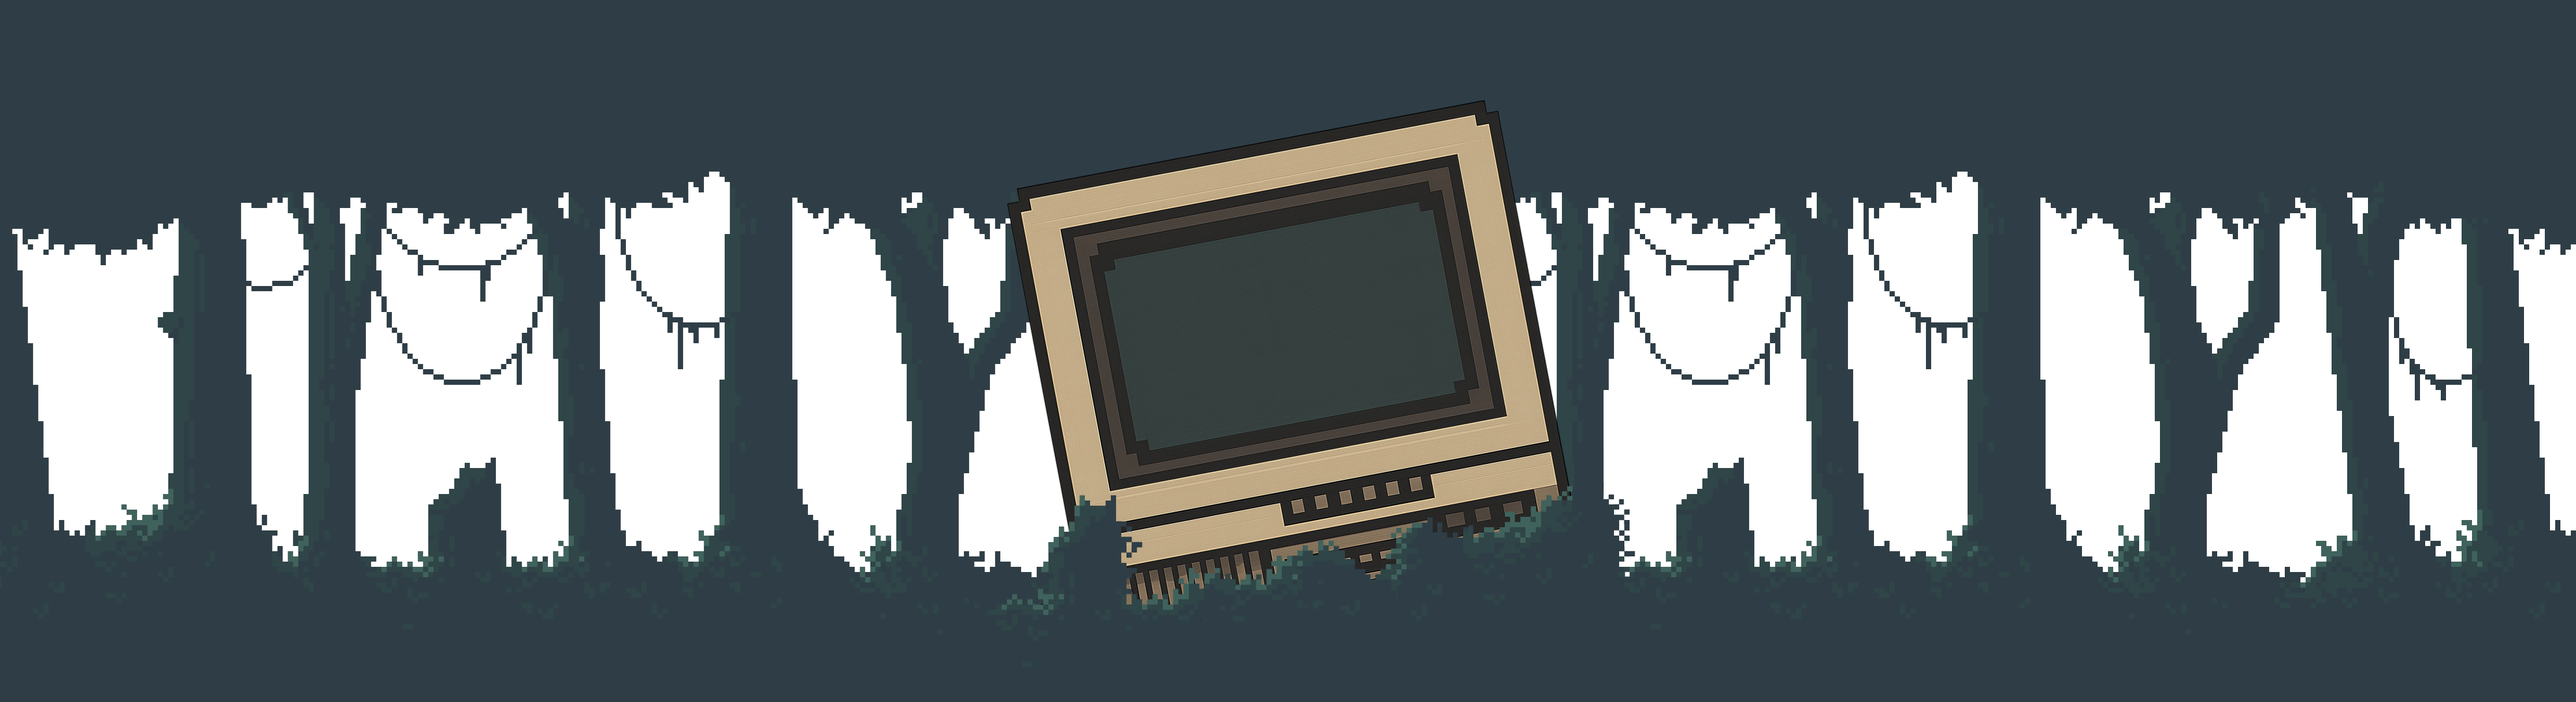
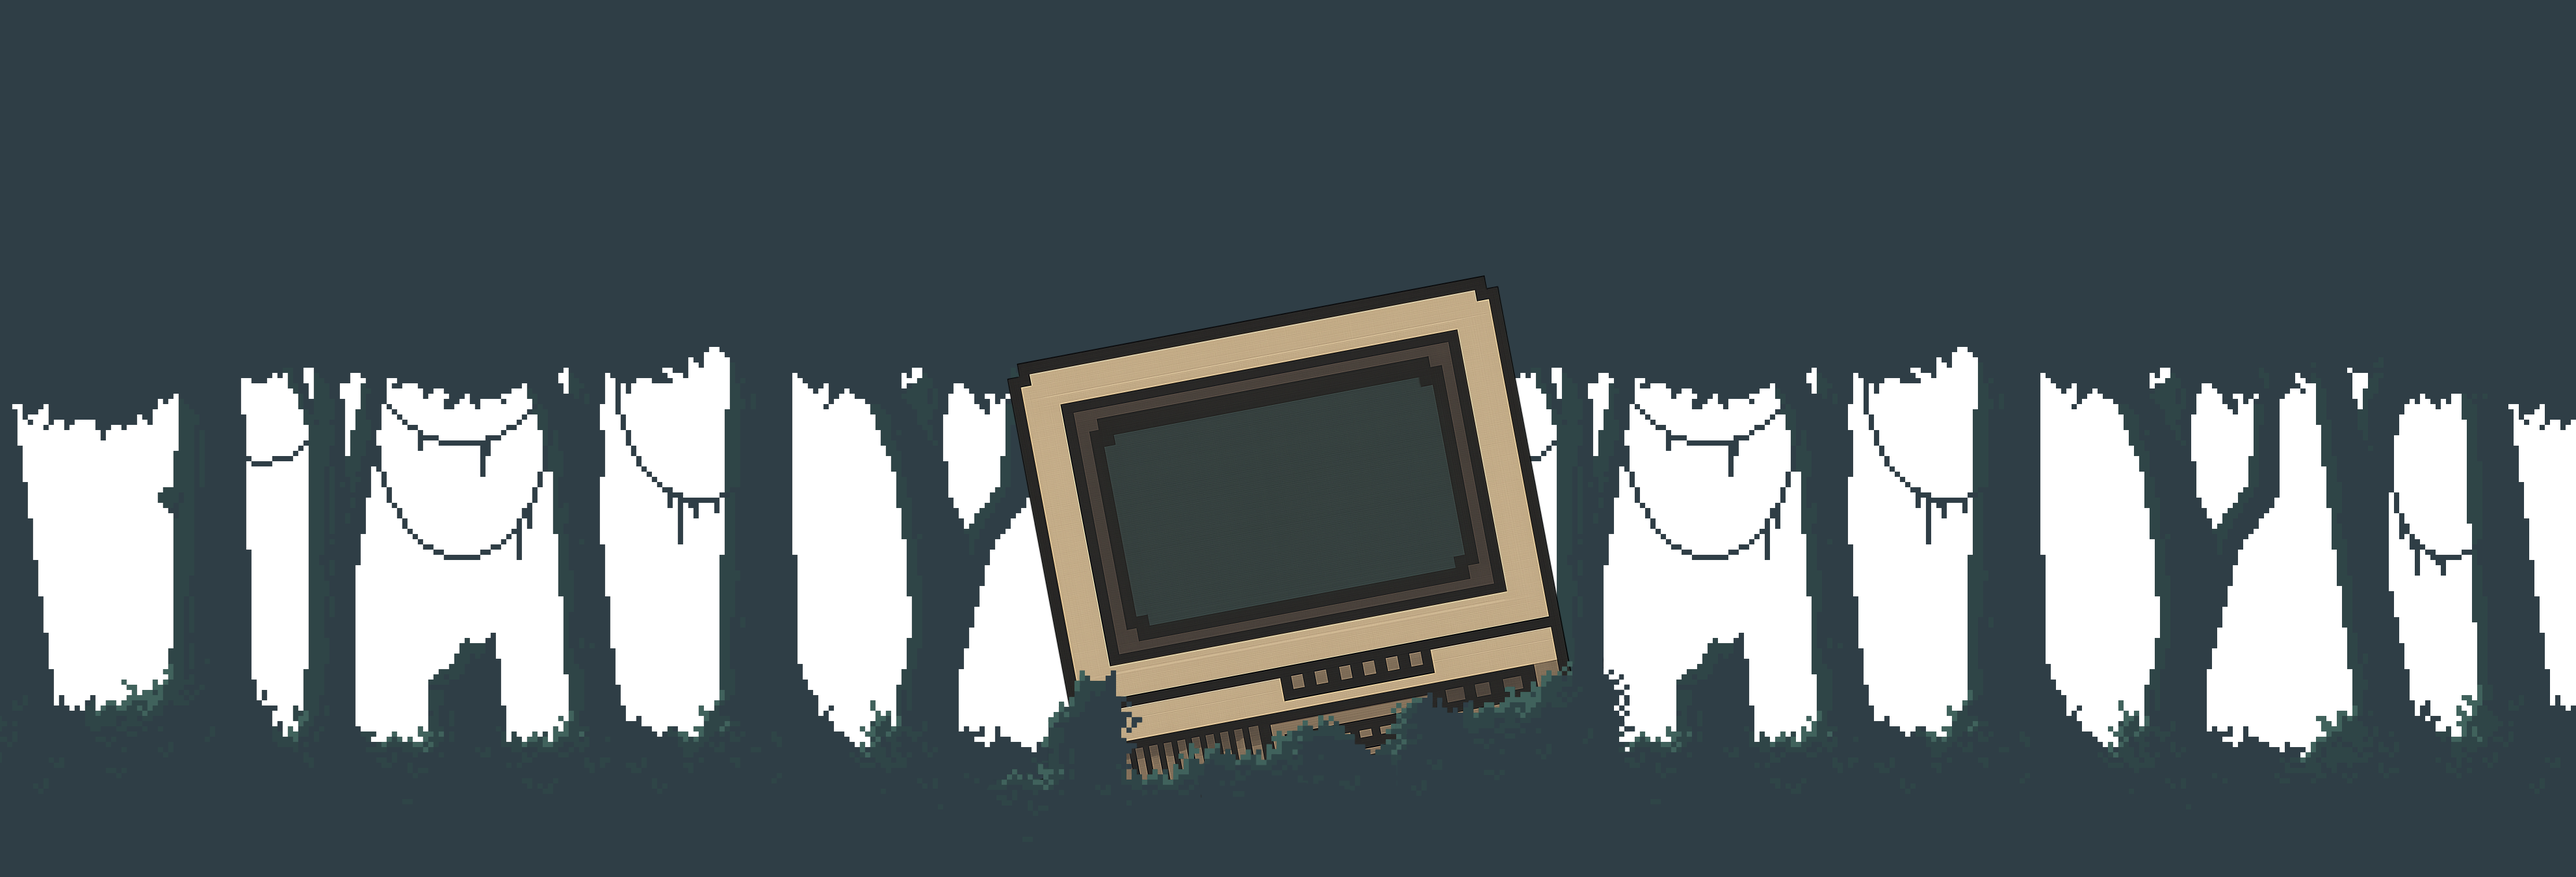
fixed top of scene leak

Changed region(s): [[0.0, 0.1528, 1.0, 0.8861], [0.0621, 0.55, 0.0931, 0.5806]]

diff --git a/src/managers/TvManager.ts b/src/managers/TvManager.ts
@@ -41,7 +41,7 @@ export class TvManager {
         this.tvMask = new Graphics().rect(0, 0, 553, 348).fill('#394241');
         this.tvMask.rotation = -0.187; // Rotate the mask to match the TV angle
         this.tvMask.x = GAME_WIDTH - 248;
-        this.tvMask.y = GAME_HEIGHT / 2 - 162;
+        this.tvMask.y = (GAME_HEIGHT / 2) + 108;
         this.tvMask.stroke({
             color: '#292826',
             width: 10

diff --git a/src/managers/SceneManager.ts b/src/managers/SceneManager.ts
@@ -210,7 +210,7 @@ export class SceneManager {
         // Create background sprites
         const j1Sprite = Sprite.from('j1');
         j1Sprite.x = 0 - this.config!.GAME_WIDTH / 2;
-        j1Sprite.y = 0;
+        j1Sprite.y = -270;
         
         const j2Sprite = Sprite.from('j2');
         j2Sprite.x = 0 - this.config!.GAME_WIDTH / 5;

diff --git a/src/managers/GameManager.ts b/src/managers/GameManager.ts
@@ -38,9 +38,6 @@ import { SceneManager } from './SceneManager';
 // (serverside related)
 
 
-//TODO: Issues in API...
-// Latest livestream not updated in stats. 
-// duplicate keys (when live stream scheduled and when it actually starts?)
 
 
 interface EntityContainers {
